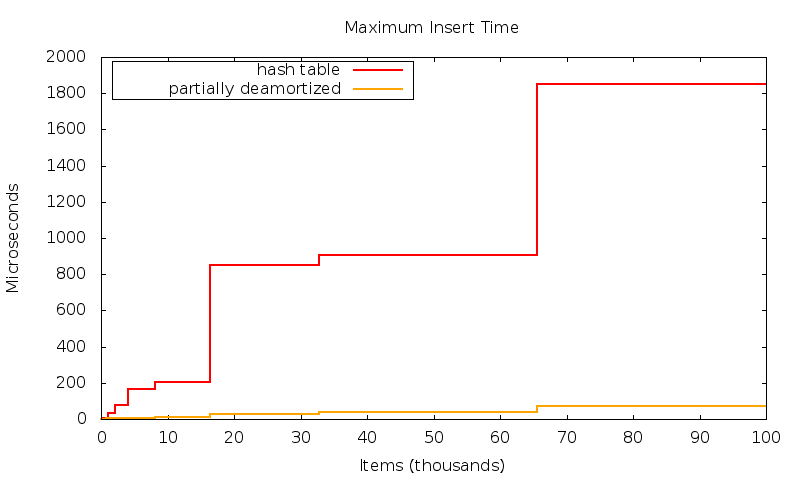
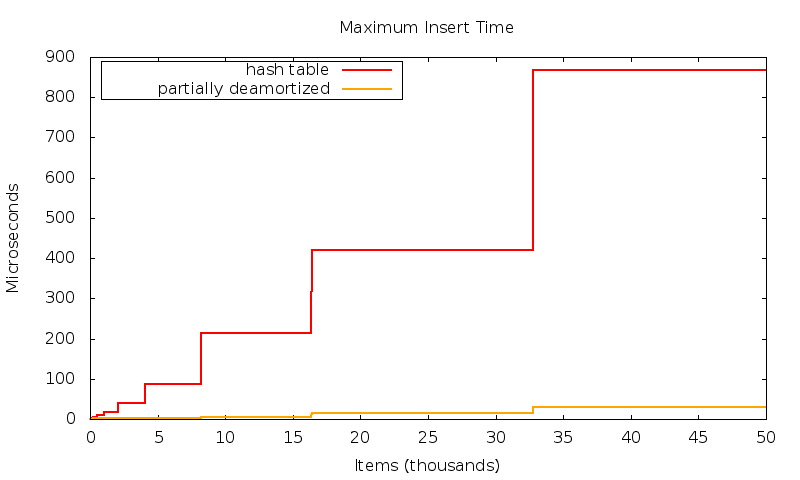
subtract flatmax from everything

diff --git a/src/benchmark/insert-maxtime.cc b/src/benchmark/insert-maxtime.cc
@@ -55,15 +55,21 @@ struct dummy {
   void insert(const T&) {}
 };
 
+size_t flatsub(const size_t& x, const size_t& y) {
+  if (y > x) return 0;
+  return x-y;
+}
+
 template<typename T, typename U>
 void test(const unsigned size, const unsigned samples) {
   unsigned i = 0;
   high_priority zz;
   std::vector<T> p(samples);
   std::vector<U> q(samples);
+  std::vector<dummy> r(samples);
   //std::vector<size_t> l1(samples,0), l2(samples,0);
   //std::vector<size_t> s1(samples,0), s2(samples,0);
-  size_t l1(0), l2(0), s1(0), s2(0);
+  size_t l1(0), l2(0), l3(0), s1(0), s2(0), s3(0);
   for (unsigned j = 0; j < size; ++j) { 
     const auto x = some::random();
     __sync_synchronize();
@@ -81,10 +87,26 @@ void test(const unsigned size, const unsigned samples) {
     __sync_synchronize();
     const size_t end = get_time();
     __sync_synchronize();
-    s1 = mid - begin;
-    s2 = end - mid;
+    for (unsigned k = 0; k < samples; ++k) { 
+      r[k].insert(x);
+    }
+    __sync_synchronize();
+    const size_t last = get_time();
+    __sync_synchronize();
+
+    s3 = last - end;
+    l3 = std::max(l3, s3);
+
+
+    s1 = flatsub(mid - begin, s3);
+    s2 = flatsub(end - mid, s3);
+    
+    //s1 = s3 > s1) ? 0
+ 
+
     l1 = std::max(l1, s1);
     l2 = std::max(l2, s2);
+ 
     cout << static_cast<double>(j)/1000.0 << '\t'
          << static_cast<double>(l1)/(1000.0 * static_cast<double>(samples)) << '\t'
          << static_cast<double>(l2)/(1000.0 * static_cast<double>(samples)) << '\t'
@@ -160,8 +182,8 @@ void print_test(std::vector<std::tuple<unsigned, double, double> > x) {
 
 int main(int argc, char ** argv) {
   srand(0);
-  unsigned size = 100000;//00;
-  unsigned samples = 128;
+  unsigned size = 50000;//00;
+  unsigned samples = 1 << 8;
   if (4 == argc) {
     size = read<unsigned>(argv[2]);
     samples = read<unsigned>(argv[3]);
